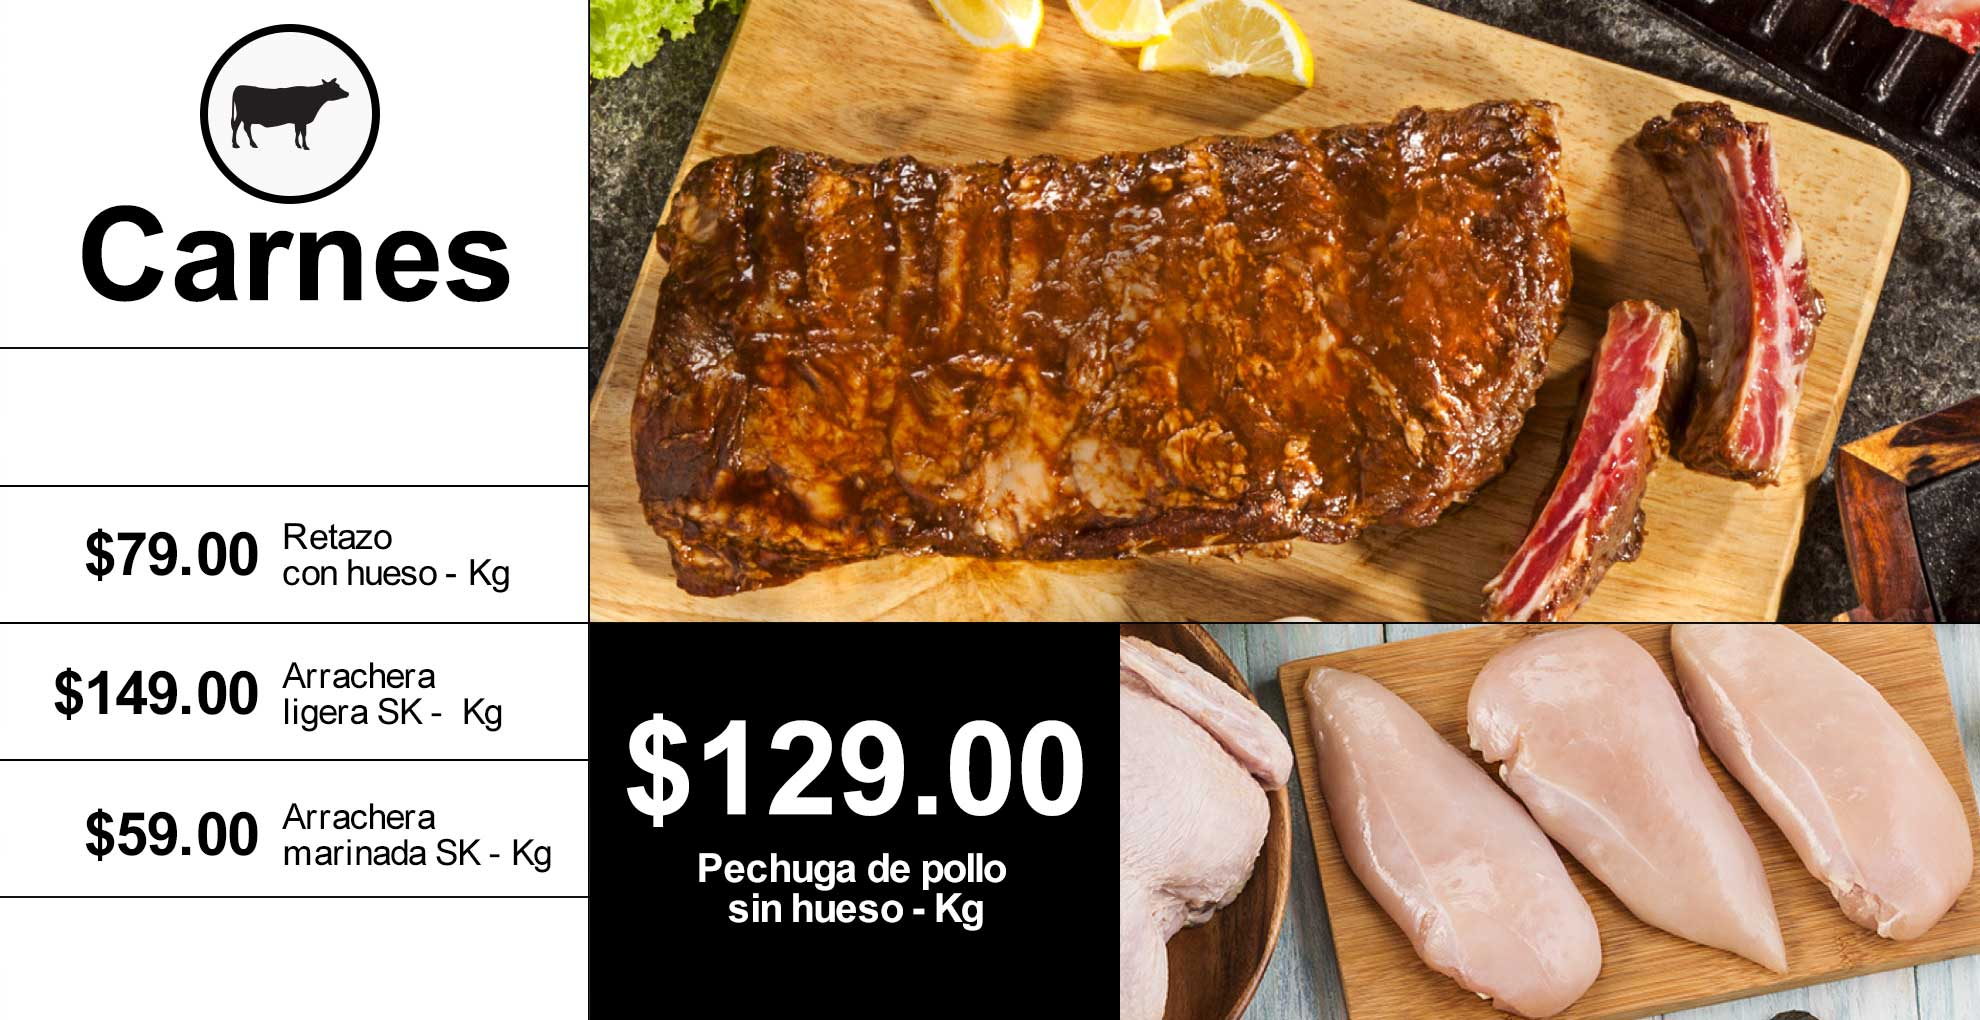
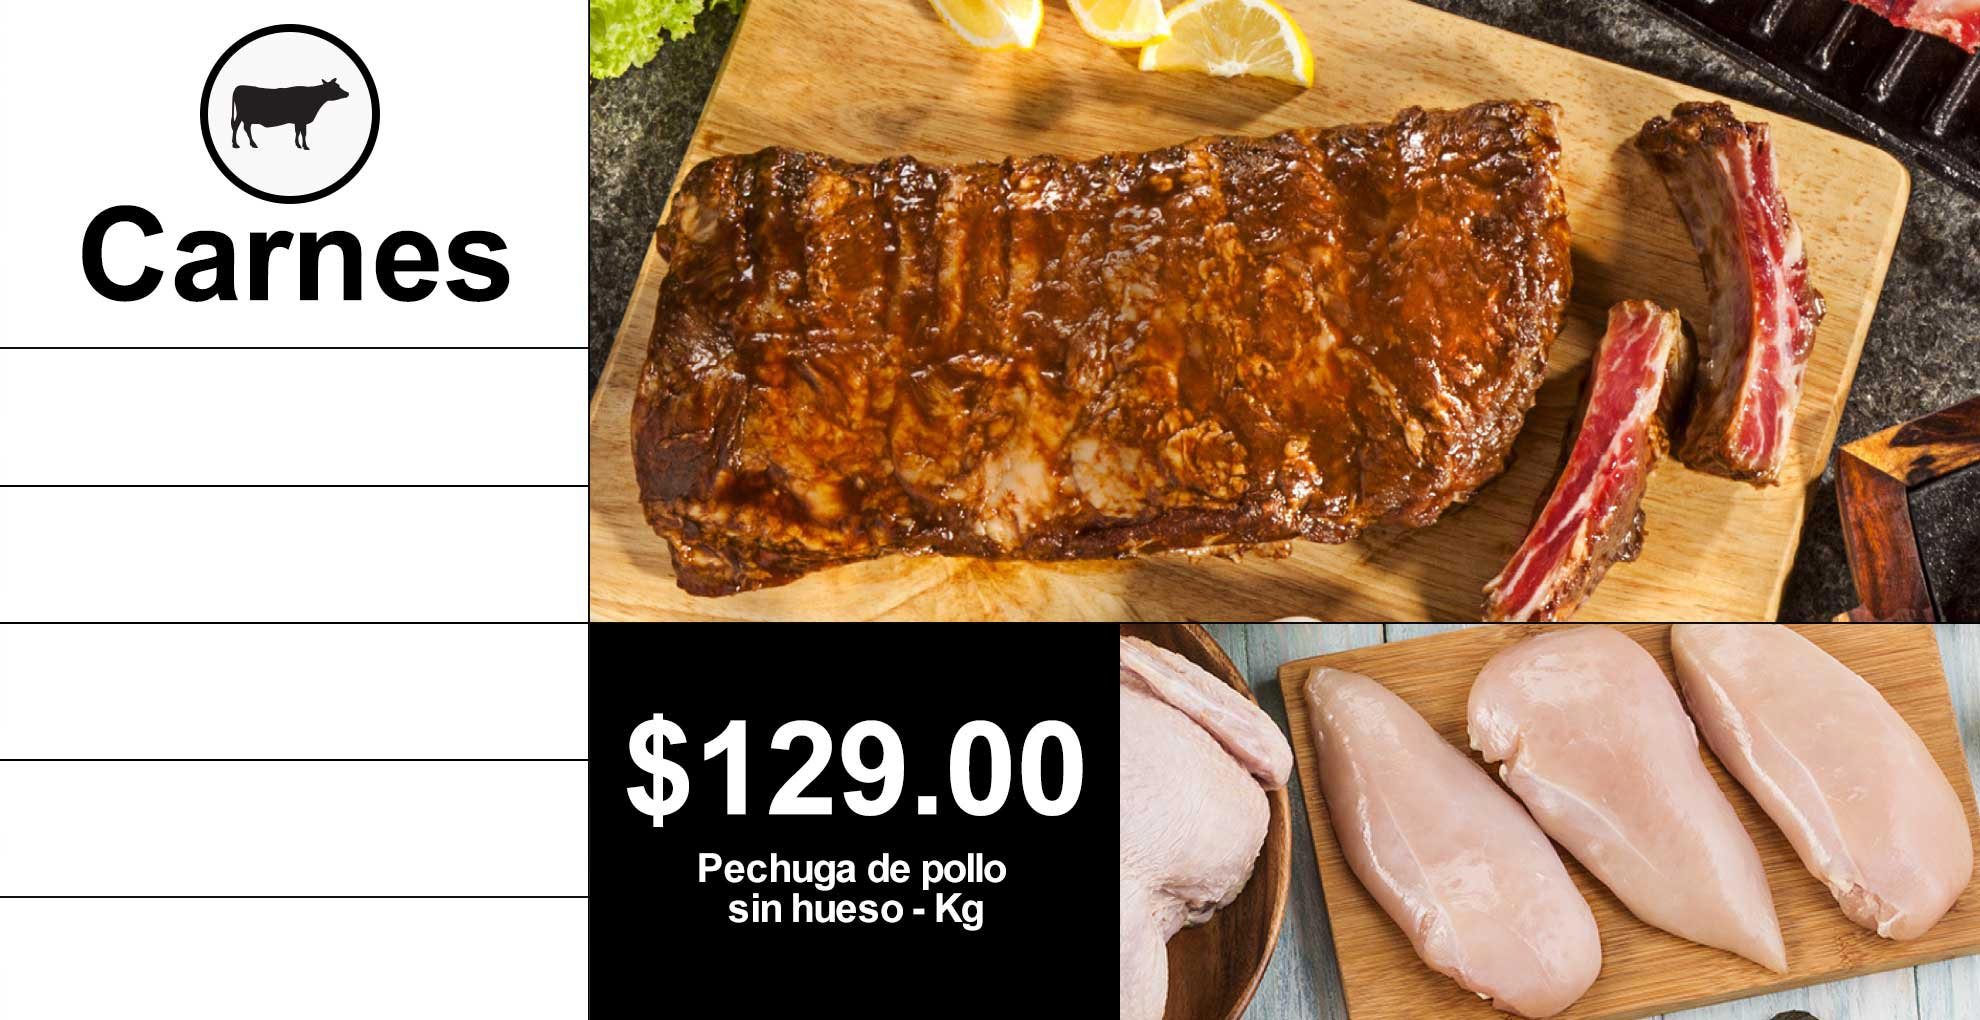
Some changes

Changed region(s): [[0.0308, 0.6382, 0.2465, 0.7294], [0.0308, 0.7902, 0.2773, 0.851], [0.0308, 0.5167, 0.2773, 0.5775]]

diff --git a/css/main.css b/css/main.css
@@ -2,89 +2,159 @@
 	Qubus.mx 180826
 */
 
-html, body, div, span, applet, object,
-iframe, h1, h2, h3, h4, h5, h6, p, blockquote,
-pre, a, abbr, acronym, address, big, cite,
-code, del, dfn, em, img, ins, kbd, q, s, samp,
-small, strike, strong, sub, sup, tt, var, b,
-u, i, center, dl, dt, dd, ol, ul, li, fieldset,
-form, label, legend, table, caption, tbody,
-tfoot, thead, tr, th, td, article, aside,
-canvas, details, embed, figure, figcaption,
-footer, header, hgroup, menu, nav, output, ruby,
-section, summary, time, mark, audio, video {
-	margin: 0;
-	padding: 0;
-	border: 0;
-	font-size: 100%;
-	font: inherit;
-	vertical-align: baseline;
+html,
+body,
+div,
+span,
+applet,
+object,
+iframe,
+h1,
+h2,
+h3,
+h4,
+h5,
+h6,
+p,
+blockquote,
+pre,
+a,
+abbr,
+acronym,
+address,
+big,
+cite,
+code,
+del,
+dfn,
+em,
+img,
+ins,
+kbd,
+q,
+s,
+samp,
+small,
+strike,
+strong,
+sub,
+sup,
+tt,
+var,
+b,
+u,
+i,
+center,
+dl,
+dt,
+dd,
+ol,
+ul,
+li,
+fieldset,
+form,
+label,
+legend,
+table,
+caption,
+tbody,
+tfoot,
+thead,
+tr,
+th,
+td,
+article,
+aside,
+canvas,
+details,
+embed,
+figure,
+figcaption,
+footer,
+header,
+hgroup,
+menu,
+nav,
+output,
+ruby,
+section,
+summary,
+time,
+mark,
+audio,
+video {
+  margin: 0;
+  padding: 0;
+  border: 0;
+  font-size: 100%;
+  font: inherit;
+  vertical-align: baseline;
 }
 
 * {
-    box-sizing: border-box;
+  box-sizing: border-box;
 }
 
 body {
-	margin: 0;
-	font-family: Gotham, Helvetica Neue, Helvetica, Arial," sans-serif";
-	font-size: 12px;
-	color: #ccc;
-	background-color: #fff;
+  margin: 0;
+  font-family: Gotham, Helvetica Neue, Helvetica, Arial, ' sans-serif';
+  font-size: 12px;
+  color: #ccc;
+  background-color: #fff;
 }
 
 h1 {
-	font-size: 60px;
-	font-style: normal;
-	font-variant: normal;
-	font-weight: bold; 
+  font-size: 60px;
+  font-style: normal;
+  font-variant: normal;
+  font-weight: bold;
 }
 
 h3 {
-	font-size: 28px;
-	font-style: normal;
-	font-variant: normal;
-	font-weight: bold;
+  font-size: 28px;
+  font-style: normal;
+  font-variant: normal;
+  font-weight: bold;
 }
 
 /********** Style the Wrap  *********/
 
 .wrap {
-	width: 1980px; 
-	height: 1020px; 
-	overflow: hidden;
-	border: 1px solid red;
-	
+  width: 1980px;
+  height: 1020px;
+  overflow: hidden;
+  border: 1px solid red;
 }
-	/********** Style the content *********/
+/********** Style the content *********/
 
- .content {
-	 width: 590px;
-	 margin: 350px 0 0 0;
-	 height: 135px;
-	 padding: 20px;
-	 text-align: left;
-	 color: #000;
-	 background-color: #f5f5f5;
+.posicion {
+  margin: 350px 0 0 0;
+  padding: 20px;
 }
 
+.content {
+  width: 590px;
+  height: 135px;
+  text-align: left;
+  color: #000;
+}
 
 .price {
-	width: 240px;
-	margin: 0;
-	padding: 0;
-	float: left;
-	overflow: hidden;
+  width: 240px;
+  margin: 0;
+  padding: 0;
+  float: left;
+  overflow: hidden;
 }
 
 .tile {
-	width: 280px;
-	margin: 0 0 0 20px;
-	padding: 0;
-	float: left;
-	overflow: hidden;
+  width: 280px;
+  margin: 0 0 0 20px;
+  padding: 0;
+  float: left;
+  overflow: hidden;
 }
 
 .price h1 {
-	float: right;
+  float: right;
 }

diff --git a/index.html b/index.html
@@ -12,16 +12,42 @@
 
 	<div class="wrap" style="background-image: url(images/bg_01.jpg); border: 0px solid red;">
 
-		
-		<div class="content">
-			<div class="price" style="border: 0px solid red;">
-				<h1 id="price"></h1>
+
+		<div class="posicion">
+			<div class="content">
+				<div class="price" style="border: 0px solid red;">
+					<h1 id="price"></h1>
+				</div>
+				<div class="tile" style="border: 0px solid red;">
+					<h3 id="name"></h3>
+				</div>
 			</div>
-			<div class="tile" style="border: 0px solid red;">
-				<h3 id="name"></h3>
+			<div class="content">
+				<div class="price" style="border: 0px solid red;">
+					<h1 id="price">$90.00</h1>
+				</div>
+				<div class="tile" style="border: 0px solid red;">
+					<h3 id="name">Retazo con hueso </br>Kg</h3>
+				</div>
+			</div>
+			<div class="content">
+				<div class="price" style="border: 0px solid red;">
+					<h1 id="price">$120.00</h1>
+				</div>
+				<div class="tile" style="border: 0px solid red;">
+					<h3 id="name">Arrachera ligera </br>Sukarne Kg</h3>
+				</div>
+			</div>
+			<div class="content">
+				<div class="price" style="border: 0px solid red;">
+					<h1 id="price">$150.00</h1>
+				</div>
+				<div class="tile" style="border: 0px solid red;">
+					<h3 id="name">Arrachera marinada </br>Sukarne Kg</h3>
+				</div>
 			</div>
 		</div>
-		
+
 
 	</div>
 
@@ -52,7 +78,7 @@
 			name.innerText = xmlDoc.getElementsByTagName("name")[0].childNodes[0].nodeValue;
 		};
 
-		dbRef.on('value', function(snap) {
+		dbRef.on('value', function (snap) {
 			product = snap.val().productXml;
 			renderXml(product);
 		});
